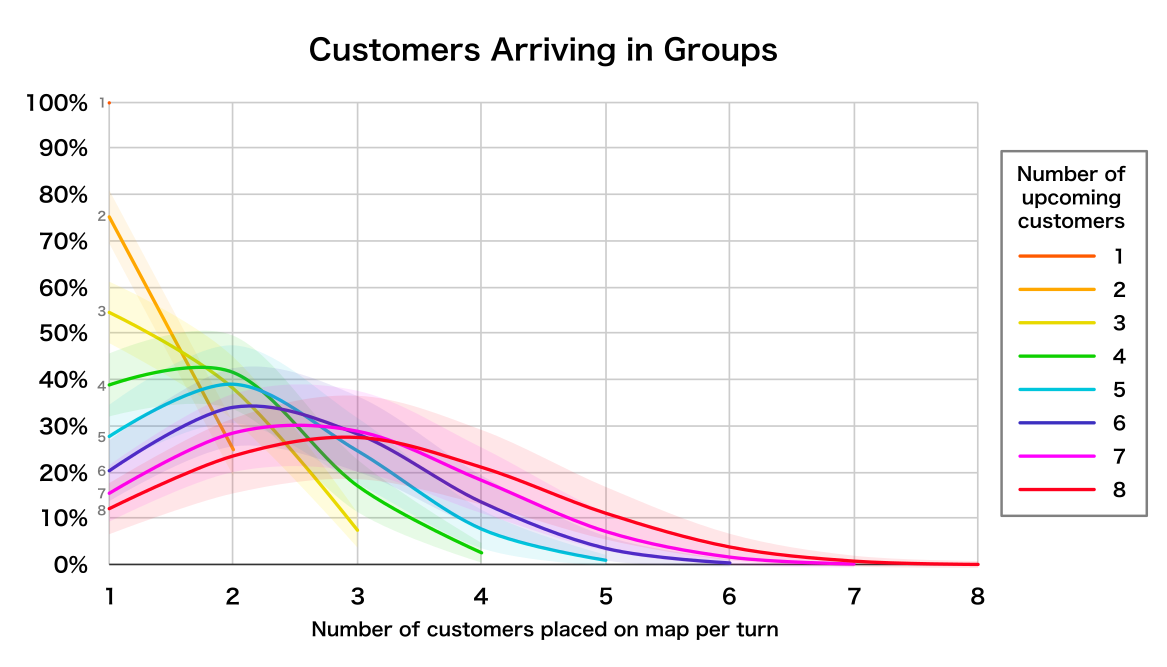
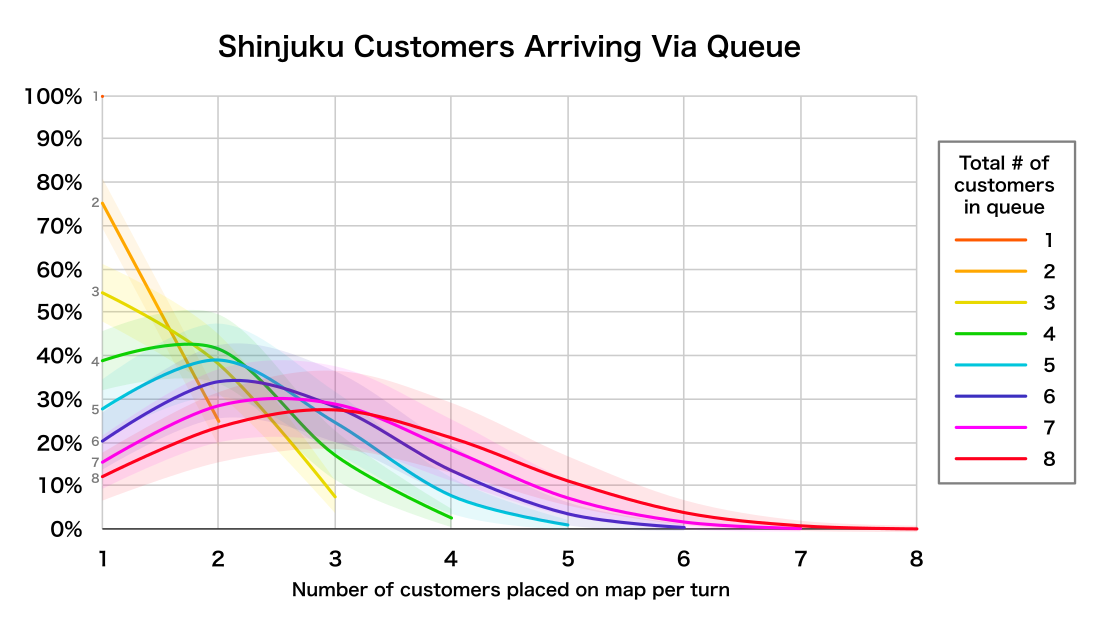
Update board image for readme. Update readme

diff --git a/README.md b/README.md
@@ -23,6 +23,12 @@ Originally released at Tokyo Game Market Spring 2024 by [リゴレ (Rigoler)](ht
 | <a href="https://garykac.github.io/shinjuku/docs/shinjuku_jpn_eng.pdf"><img src="docs/shinjuku_jpn_eng_tn.jpg" height="200px"/></a> |
 | <a href="https://garykac.github.io/shinjuku/docs/shinjuku_jpn_eng.pdf">English translation<br/>of Japanese rulebook</a> |
 
+## Supernova Edition
+
+An Italian/English version was released by [Studio Supernova](https://www.studiosupernova.it/products/shinjuku) in April 2025.
+
+A German version was released by [Heidelbär](https://www.heidelbaer.de/shinjuku) in June 2025.
+
 ## General Rulebooks
 
 The Rules of Play and Quickstart Guide were written for the Print-and-Play and online versions, but they can also be used to augment the Japanese rules because they provide addition rule clarifications and examples of play.
@@ -35,8 +41,6 @@ The Rules of Play and Quickstart Guide were written for the Print-and-Play and o
 ## Links
 
 #### General Links
-
-* [Kickstarter Upcoming Project](https://www.kickstarter.com/projects/garykac/shinjuku)
 
 * Online virtual tabletops:
    * [Tabletop Simulator](https://steamcommunity.com/sharedfiles/filedetails/?id=2138588825)
@@ -137,12 +141,6 @@ Players can earn a stack of Upgrade Bonus tokens when they upgrade one of their 
 
 These tokens can act as a customer of any type during the endgame set-collection scoring.
 
-### Matsuri (Festival) Token
-
-<img src="gamedev/components/matsuri.png" height="40px"/>
-
-The Matsuri token is moved each turn and identifies where a festival is taking place. Cards that match the festival location are wild.
-
 ### Gameplay
 
 #### Per-player Setup
@@ -156,10 +154,6 @@ The Matsuri token is moved each turn and identifies where a festival is taking p
 * Add initial customers to map:
    * Draw 4 different ward cards (re-draw if you get a duplicate)
    * Draw 2 customers for each location drawn
-
-* Determine starting location for the Matsuri:
-   * Draw a ward card
-   * Place the Matsuri token in that location
 
 * Choose a starting player and have them take the Start Player Token.
 
@@ -192,10 +186,6 @@ To refresh the customer queue:
 * Draw a new card and place it on ④
 * Add customers to the queue equal to the number that were just placed on the map. 
 
-##### Move the Matsuri
-
-Move the Matsuri token from its current location into a neighboring location.
-
 ##### Take Two Actions
 
 Choose any two of the following actions (must be different actions):
@@ -219,10 +209,6 @@ You can play any three cards from your hand as a single wildcard.
 Once you've built a store (or department store) in a ward, the cards for that ward become wildcards for you.
 
 Because the card frequency varies based on the population of that ward, some wards work better as wildcards (because you're more likely to draw them).
-
-#### ...from the Matsuri
-
-Cards that match the current location of the Matsuri token are wild.
 
 ### Moving Customers
 
